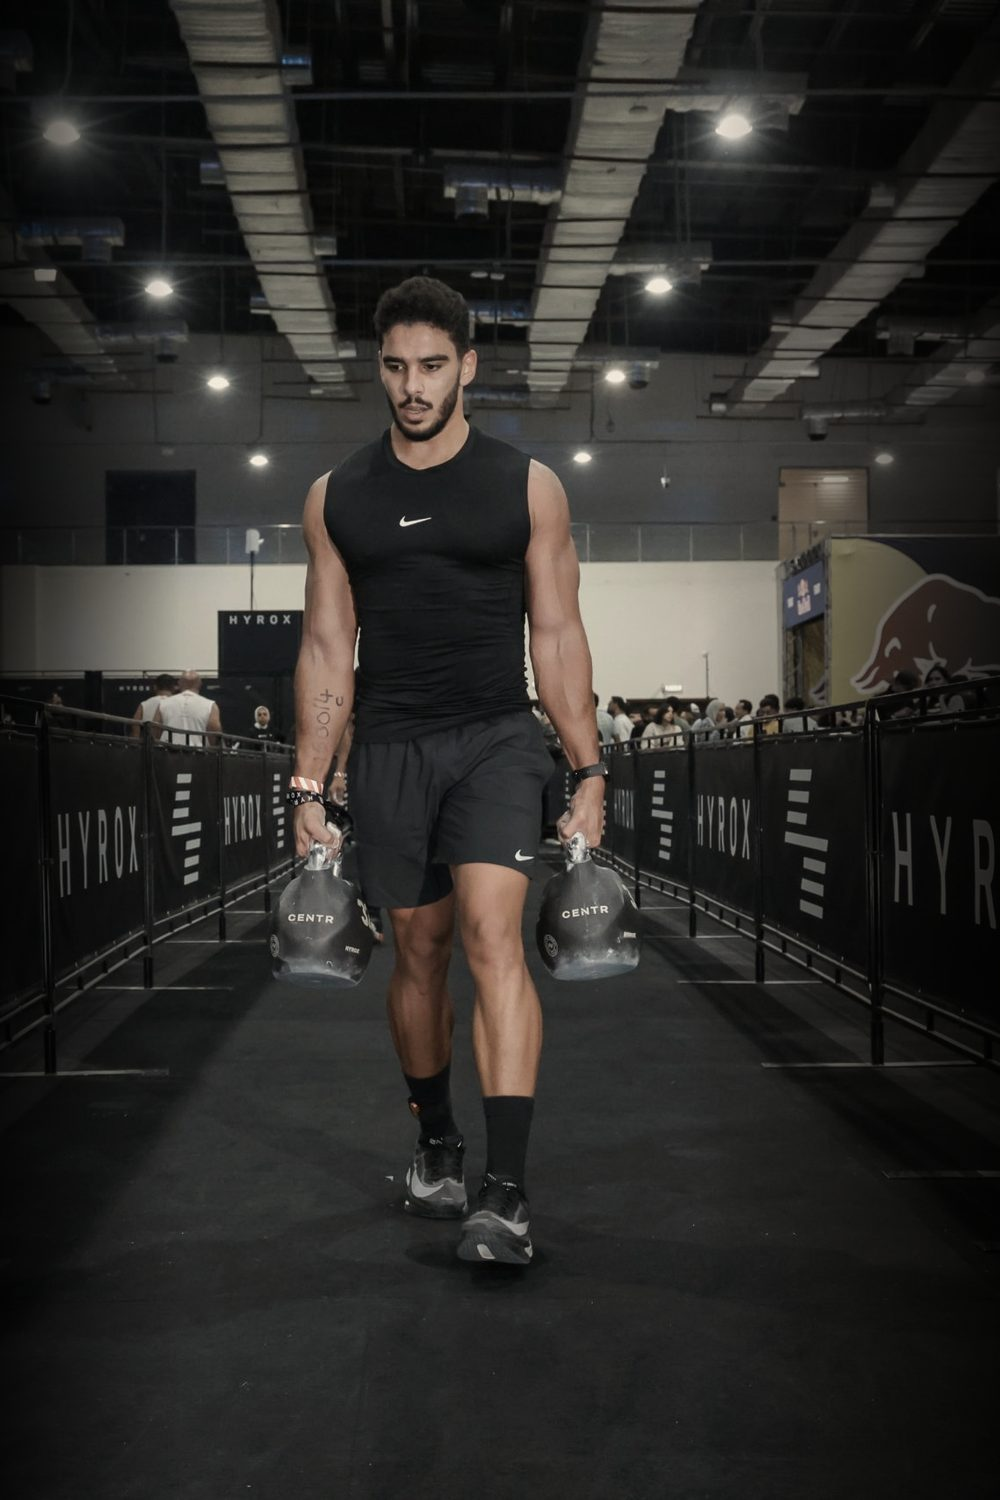
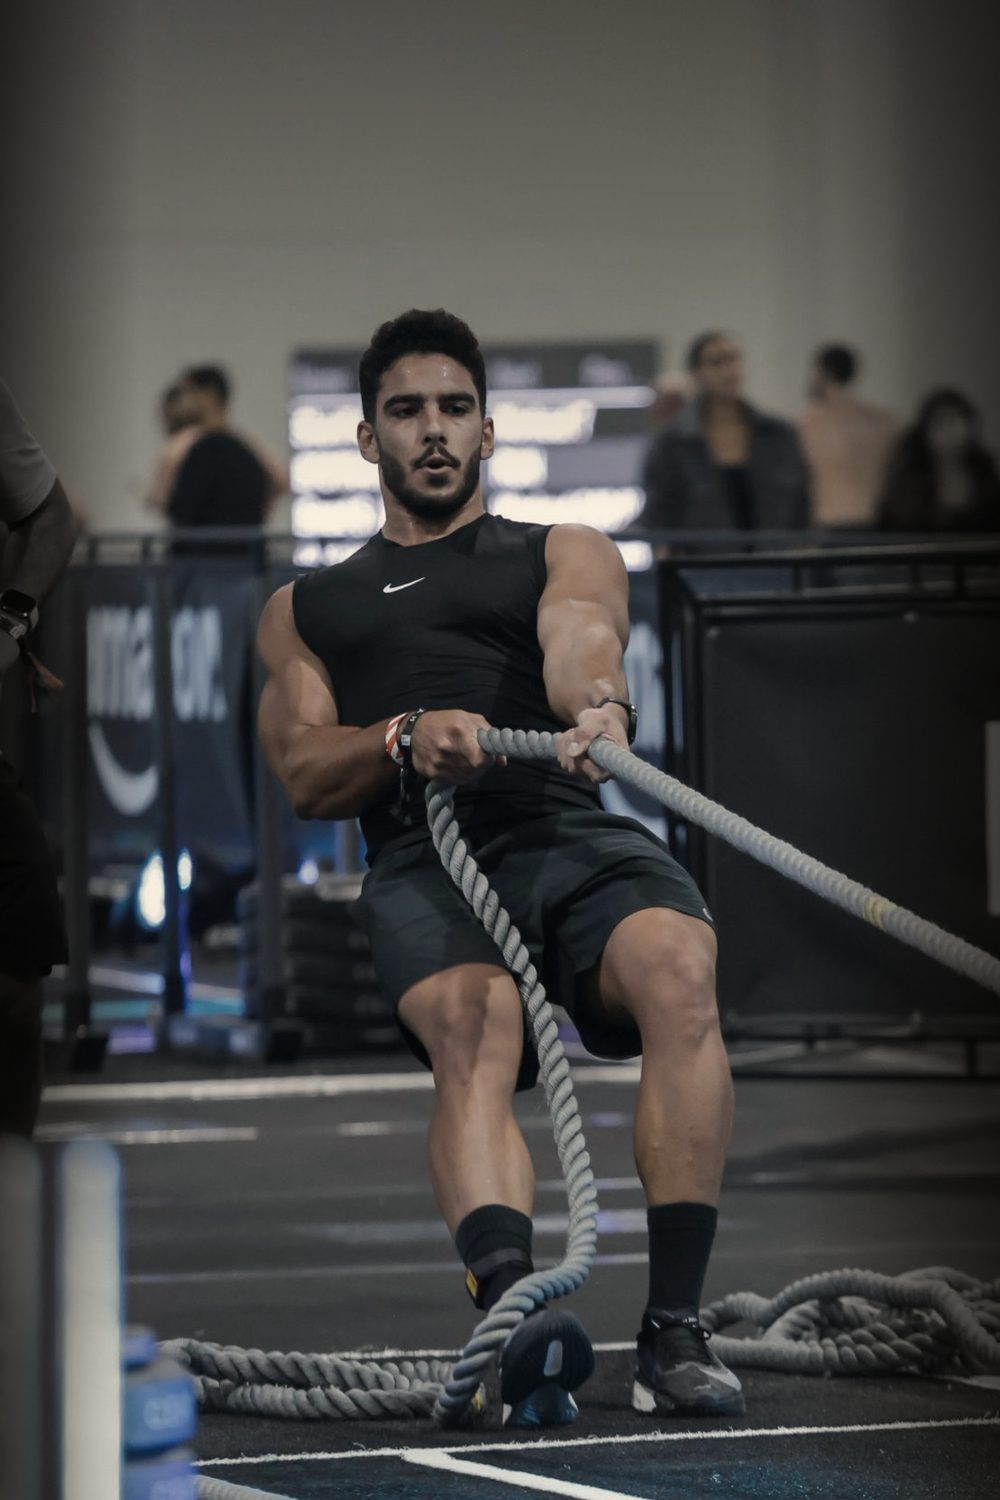
Rope pull as hero; My path timeline (rings back, carry added); How I coach steps; client photos unblurred with consent
Claude-Session: https://claude.ai/code/session_01Qn13jcrzu7dUQaZimEdiSf

diff --git a/index.html b/index.html
@@ -101,6 +101,24 @@ img{max-width:100%;display:block;}
 .how-img{border-radius:16px;overflow:hidden;background:var(--panel-2);aspect-ratio:4/3;}
 .how-img img{width:100%;height:100%;object-fit:cover;filter:saturate(.82) sepia(.1);}
 .how-img img[src*="how-kraft"]{filter:saturate(.6) sepia(.16);}
+.path{list-style:none;margin:0;padding:0;display:flex;flex-direction:column;gap:34px;position:relative;}
+.path::before{content:"";position:absolute;left:5px;top:8px;bottom:8px;width:1px;background:linear-gradient(var(--line),var(--line) 85%,transparent);}
+.step{position:relative;padding-left:30px;}
+.step::before{content:"";position:absolute;left:0;top:4px;width:9px;height:9px;border-radius:50%;background:var(--bg);border:1px solid var(--gold);}
+.step.now::before{background:var(--gold);box-shadow:0 0 0 4px rgba(207,178,124,.16);}
+.step-year{display:block;font-size:11px;font-weight:600;letter-spacing:.16em;text-transform:uppercase;color:var(--gold);}
+.step-title{font-family:var(--serif);font-weight:500;font-size:22px;line-height:1.25;margin:6px 0 0;}
+.step-text{font-size:14px;line-height:1.7;color:var(--muted);margin:6px 0 0;max-width:46ch;}
+.step-img{margin-top:14px;border-radius:14px;overflow:hidden;aspect-ratio:16/9;background:var(--panel-2);}
+.step-img img{width:100%;height:100%;object-fit:cover;display:block;filter:saturate(.82) sepia(.1);}
+.step-img img[src*="how-kraft"]{filter:saturate(.6) sepia(.16);}
+.method{list-style:none;margin:0;padding:0;display:flex;flex-direction:column;gap:22px;}
+.m-row{display:grid;grid-template-columns:38% 1fr;gap:16px;align-items:center;}
+.m-img{border-radius:12px;overflow:hidden;aspect-ratio:4/5;background:var(--panel-2);}
+.m-img img{width:100%;height:100%;object-fit:cover;display:block;filter:saturate(.82) sepia(.1);}
+.m-num{display:block;font-size:12px;font-weight:500;color:var(--gold);font-variant-numeric:tabular-nums;}
+.m-title{font-family:var(--serif);font-weight:500;font-size:19px;line-height:1.3;margin:4px 0 0;}
+.m-text{font-size:13.5px;line-height:1.65;color:var(--muted);margin:6px 0 0;}
 .how-foot{display:flex;justify-content:space-between;align-items:center;}
 .how-card figcaption{display:flex;gap:12px;}
 .how-num{font-size:12px;font-weight:500;color:var(--gold);padding-top:4px;font-variant-numeric:tabular-nums;}
@@ -193,8 +211,10 @@ img{max-width:100%;display:block;}
 /* WIDE SCREENS: identity fixed on the left, content scrolls on the right */
 @media (min-width: 900px){
   .wrap{max-width:none;margin:0;padding:0;display:grid;grid-template-columns:clamp(380px,42vw,600px) minmax(0,1fr);column-gap:0;row-gap:88px;align-items:start;}
-  main.wrap > .hero-photo{grid-column:1;grid-row:1 / span 8;position:sticky;top:0;width:auto;height:100vh;margin:0;border-right:1px solid var(--line);justify-self:stretch;}
-  .hero-photo img{object-position:50% 40%;}
+  main.wrap > .hero-photo{grid-column:1;grid-row:1 / span 9;position:sticky;top:0;width:auto;height:100vh;margin:0;border-right:1px solid var(--line);justify-self:stretch;}
+  .hero-photo img{object-position:40% 40%;}
+  .m-row{grid-template-columns:200px 1fr;gap:24px;}
+  .m-img{aspect-ratio:1/1;}
   .hero-photo::after{background:linear-gradient(to bottom, rgba(12,11,10,.4) 0%, rgba(12,11,10,0) 18%, rgba(12,11,10,0) 72%, rgba(12,11,10,.6) 100%);}
   .hero-photo figcaption{left:36px;top:auto;bottom:30px;}
   .hero h1{font-size:64px;}
@@ -213,7 +233,7 @@ img{max-width:100%;display:block;}
 <main class="wrap">
 
   <figure class="hero-photo">
-    <img src="hero-race.jpg" alt="Ziad Elfeky on the farmers carry at HYROX Cairo, November 2026" fetchpriority="high">
+    <img src="hero-race.jpg" alt="Ziad Elfeky on the sled pull at HYROX Cairo, November 2026" fetchpriority="high">
     <figcaption>HYROX Cairo &middot; November 2026</figcaption>
   </figure>
 
@@ -245,35 +265,57 @@ img{max-width:100%;display:block;}
     </div>
   </section>
 
+  <section class="sec" aria-labelledby="path-title">
+    <div class="sec-head"><p class="label" id="path-title">My path</p></div>
+    <ol class="path">
+      <li class="step">
+        <span class="step-year">2016</span>
+        <h3 class="step-title">Coach and athlete</h3>
+        <p class="step-text">Coaching independently in Alexandria while competing in functional fitness. I have trained under the same demands I prescribe.</p>
+        <div class="step-img"><img src="how-athlete.jpg" alt="Ziad training on the gymnastic rings, his competition poster on the wall" loading="lazy"></div>
+      </li>
+      <li class="step">
+        <span class="step-year">2023 &ndash; 2025</span>
+        <h3 class="step-title">Club football</h3>
+        <p class="step-text">Strength and conditioning in club football. The pitch set my standard: structure, measurement and progression for every client, athlete or not.</p>
+        <div class="step-img"><img src="how-pitch.jpg" alt="Ziad coaching footballers on the pitch" loading="lazy"></div>
+      </li>
+      <li class="step">
+        <span class="step-year">2023</span>
+        <h3 class="step-title">Founded Kraft Fitness</h3>
+        <p class="step-text">Kraft in Ganaklis is where I coach in person: small sessions, every client on their own program.</p>
+        <div class="step-img"><img src="how-kraft.jpg" alt="Ziad coaching a client through a banded exercise at Kraft Fitness" loading="lazy"></div>
+      </li>
+      <li class="step">
+        <span class="step-year">2024 &ndash; 2025</span>
+        <h3 class="step-title">The clinic</h3>
+        <p class="step-text">Rehabilitation specialist at a clinic in Alexandria. It is why every program I write starts by finding the root cause.</p>
+      </li>
+      <li class="step now">
+        <span class="step-year">2026</span>
+        <h3 class="step-title">Back on a start line</h3>
+        <p class="step-text">Egypt&rsquo;s first HYROX, Cairo, November 2026. Four years after my last competition.</p>
+        <div class="step-img"><img src="path-hyrox.jpg" alt="Ziad on the farmers carry at HYROX Cairo, November 2026" loading="lazy"></div>
+      </li>
+    </ol>
+  </section>
+
   <section class="sec band" aria-labelledby="how-title">
-    <div class="sec-head"><p class="label" id="how-title">How I work</p><span class="count" id="hcount" aria-hidden="true">1 / 6</span></div>
-    <div class="how" id="how" tabindex="0" aria-roledescription="carousel" aria-label="How I work. Swipe for more.">
-      <figure class="how-card" role="group" aria-roledescription="slide" aria-label="1 of 6">
-        <div class="how-img"><img src="how-kraft.jpg" alt="Ziad coaching a client through a banded exercise at Kraft Fitness"></div>
-        <figcaption><span class="how-num">01</span><span><span class="how-title">Coached at Kraft</span><span class="how-text">Kraft Fitness in Ganaklis is where I coach in person: small sessions, every client on their own program.</span></span></figcaption>
-      </figure>
-      <figure class="how-card" role="group" aria-roledescription="slide" aria-label="2 of 6">
-        <div class="how-img"><img src="how-assess.jpg" alt="Ziad guiding a client through a hands-on mobility assessment" loading="lazy"></div>
-        <figcaption><span class="how-num">02</span><span><span class="how-title">Assess before we load</span><span class="how-text">Every program starts with a movement assessment. I find what is limiting you, fix it, then build strength on top of it.</span></span></figcaption>
-      </figure>
-      <figure class="how-card" role="group" aria-roledescription="slide" aria-label="3 of 6">
-        <div class="how-img"><img src="how-hands.jpg" alt="Ziad cueing a client’s shoulder position against the wall" loading="lazy"></div>
-        <figcaption><span class="how-num">03</span><span><span class="how-title">Hands-on coaching</span><span class="how-text">Cues are hands-on and specific. Position, range and breathing are corrected in the moment, not after the set.</span></span></figcaption>
-      </figure>
-      <figure class="how-card" role="group" aria-roledescription="slide" aria-label="4 of 6">
-        <div class="how-img"><img src="how-teach.jpg" alt="Ziad explaining how a training program is built" loading="lazy"></div>
-        <figcaption><span class="how-num">04</span><span><span class="how-title">You learn the why</span><span class="how-text">I explain the reasoning behind your program, so you understand how you train and can keep progressing on your own.</span></span></figcaption>
-      </figure>
-      <figure class="how-card" role="group" aria-roledescription="slide" aria-label="5 of 6">
-        <div class="how-img"><img src="how-pitch.jpg" alt="Ziad coaching footballers on the pitch" loading="lazy"></div>
-        <figcaption><span class="how-num">05</span><span><span class="how-title">Built on performance</span><span class="how-text">Years coaching footballers set my standard. Every client, athlete or not, gets the same structure, measurement and progression.</span></span></figcaption>
-      </figure>
-      <figure class="how-card" role="group" aria-roledescription="slide" aria-label="6 of 6">
-        <div class="how-img"><img src="how-race.jpg" alt="Ziad on the sled pull at HYROX Cairo, November 2026" loading="lazy"></div>
-        <figcaption><span class="how-num">06</span><span><span class="how-title">Lived it as an athlete</span><span class="how-text">From football to competitive fitness, and back on a start line at Egypt&rsquo;s first HYROX in November 2026. I train under the same demands I prescribe.</span></span></figcaption>
-      </figure>
-    </div>
-    <div class="how-foot"><div class="dots" id="hdots" aria-label="How I work"></div></div>
+    <div class="sec-head"><p class="label" id="how-title">How I coach</p></div>
+    <ol class="method">
+      <li class="m-row">
+        <div class="m-img"><img src="how-assess.jpg" alt="Ziad guiding a client through a hands-on mobility assessment" loading="lazy"></div>
+        <div><span class="m-num">01</span><h3 class="m-title">Assess before we load</h3><p class="m-text">Every program starts with a movement assessment. I find what is limiting you, fix it, then build strength on top of it.</p></div>
+      </li>
+      <li class="m-row">
+        <div class="m-img"><img src="how-hands.jpg" alt="Ziad cueing a client&rsquo;s shoulder position against the wall" loading="lazy"></div>
+        <div><span class="m-num">02</span><h3 class="m-title">Hands-on coaching</h3><p class="m-text">Cues are hands-on and specific. Position, range and breathing are corrected in the moment, not after the set.</p></div>
+      </li>
+      <li class="m-row">
+        <div class="m-img"><img src="how-teach.jpg" alt="Ziad explaining how a training program is built" loading="lazy" style="object-position:30% 50%"></div>
+        <div><span class="m-num">03</span><h3 class="m-title">You learn the why</h3><p class="m-text">I explain the reasoning behind your program, so you understand how you train and can keep progressing on your own.</p></div>
+      </li>
+    </ol>
   </section>
 
   <section class="sec" aria-labelledby="oc-title">
@@ -420,8 +462,6 @@ img{max-width:100%;display:block;}
   }
   var results = document.getElementById('results');
   swipe(results, Array.prototype.slice.call(results.querySelectorAll('.slide')), document.getElementById('rdots'), 'Result', document.getElementById('rcount'), true);
-  var how = document.getElementById('how');
-  swipe(how, Array.prototype.slice.call(how.querySelectorAll('.how-card')), document.getElementById('hdots'), 'Card', document.getElementById('hcount'), false);
   var quotes = document.getElementById('quotes');
   swipe(quotes, Array.prototype.slice.call(quotes.querySelectorAll('.q')), document.getElementById('dots'), 'Review', null, false);
 })();
